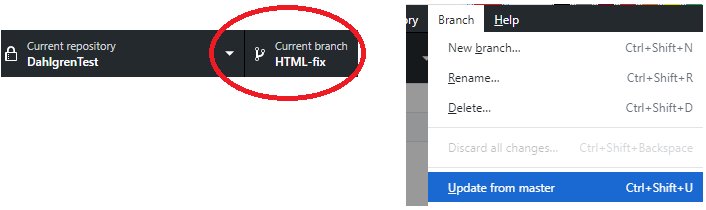
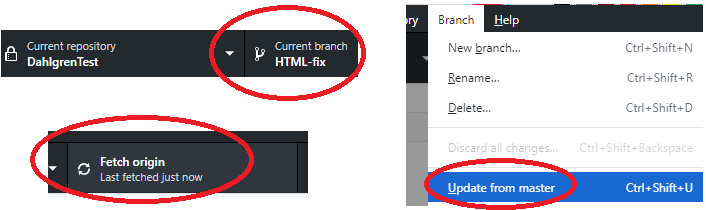
Finalized update to documentation

Changed region(s): [[0.0312, 0.5429, 0.4363, 0.9714], [0.5921, 0.7429, 0.8102, 0.9429], [0.6232, 0.8571, 0.8414, 1.0]]

diff --git a/html/branch_update.html b/html/branch_update.html
@@ -1,7 +1,7 @@
 <!DOCTYPE html>
 <html>
   <head>
-    <title>Signing up for a Stack Overflow Account</title>
+    <title>Updating a Branch from Master</title>
       <style>
         body {width:575px;}
       </style>
@@ -9,37 +9,44 @@
     </script>
   </head>
   <body>
-    <h3 class="assignment">Signing up for a Stack Overflow</h3>
-    <p>Stack Overflow is an important resource for research and general 
-      knowledge of computer science and it is important that we fully 
-      utilize it by creating an account.</p>
-      <ul>
-        <li>To start, follow <a href="https://stackoverflow.com"
-          target="_blank">this link</a> and navigate to the blue sign up
-          button.</li>
-          <img alt="StackOverFlow" src="./imgs/StackOverflowAcct01.png"/>
-        <li>Next, choose a display name(similar to GitHub, choose something 
-          appropriate) and then signup using an email and password.</li>
-          <ul>
-            <ul>
-              <ul>
-                  <ul><img alt="StackOverFlow" src="./imgs/StackOverflowAcct02.png"/></ul>
-              </ul>
-            </ul>
-          </ul>
-        <li>After signing up, you will be told to check your email for a 
-          confirmation email. It will look something like this:</li>
-          <img alt="StackOverFlow" src="./imgs/StackOverflowAcct03.png"/>
-          <img alt="StackOverFlow" src="./imgs/StackOverflowAcct04.png"/>
-        <li>Confirming will take you to this page, where you can confirm your 
-          information and finalize your account settings.</li>
-          <ul>
-            <ul>
-              <ul>
-                  <ul><img alt="StackOverFlow" src="./imgs/StackOverflowAcct05.png"/></ul>
-              </ul>
-            </ul>
-          </ul>
-      </ul>
+    <h3>How to update a branch</h3>
+    <p>
+      When a branch has been created for a feature and then closed
+      it hangs around until someone closes it. When this happens, 
+      that branch becomes outdated in comparison to the master trunk.
+      This process will update the branch so it can be closed.
+    </p>
+    <p>
+      From the repository's main page, select the branches tab to show
+      what branches exist and how far out of date they are from the 
+      master.
+      <br>
+      <img alt="Look for existing branches" src="./imgs/updateBranch.png">
+    </p>
+    <p>
+      This view shows both changes in master that need to be updated.
+      Note that the Math-Test branch has 26 commits in its own branch 
+      that need to be merged with master. At the same time, master has
+      had 15 new commits that need to be merged with Math-Test. A 
+      long-living branch will become outdated and needs to be returned
+      to the master.
+      <br>
+      <img alt="Check for currency" src="./imgs/updateBranch2.png">
+    </p>
+    <p>
+      Once a branch has been identified, from desktop move to that branch.
+      In the menu select Branch > Update from Master. Don't forget to fetch
+      origin to get all those updates. Once this is done, any change from
+      master will also be available on this branch.
+      <br>
+      <img alt="Update on desktop" src="./imgs/updateBranch4.png">
+    </p>
+    <p>
+      If you refreshed the list of branches online, you will see that
+      the branch is now caught up with the master branch. At this point
+      the branch could be deleted.
+      <br>
+      <img alt="Branch is current" src="./imgs/updateBranch5.png">
+    </p>
   </body>
 </html>

diff --git a/html/index.html b/html/index.html
@@ -17,6 +17,11 @@
       <li><a href="NewDevelopers.html">How to get started as a new developer</a></li>
     </ul>
 
+    <h3>Branches and Mergers</h3>
+    <ul>
+      <li><a href="branch_update.html">Updating a branch</a></li>
+    </ul>
+
     <h3>Other</h3>
     <ul>
       <li><a href="https://github.com/marketplace/actions/html5-validator">Associated project to validate HTML5</a></li>
